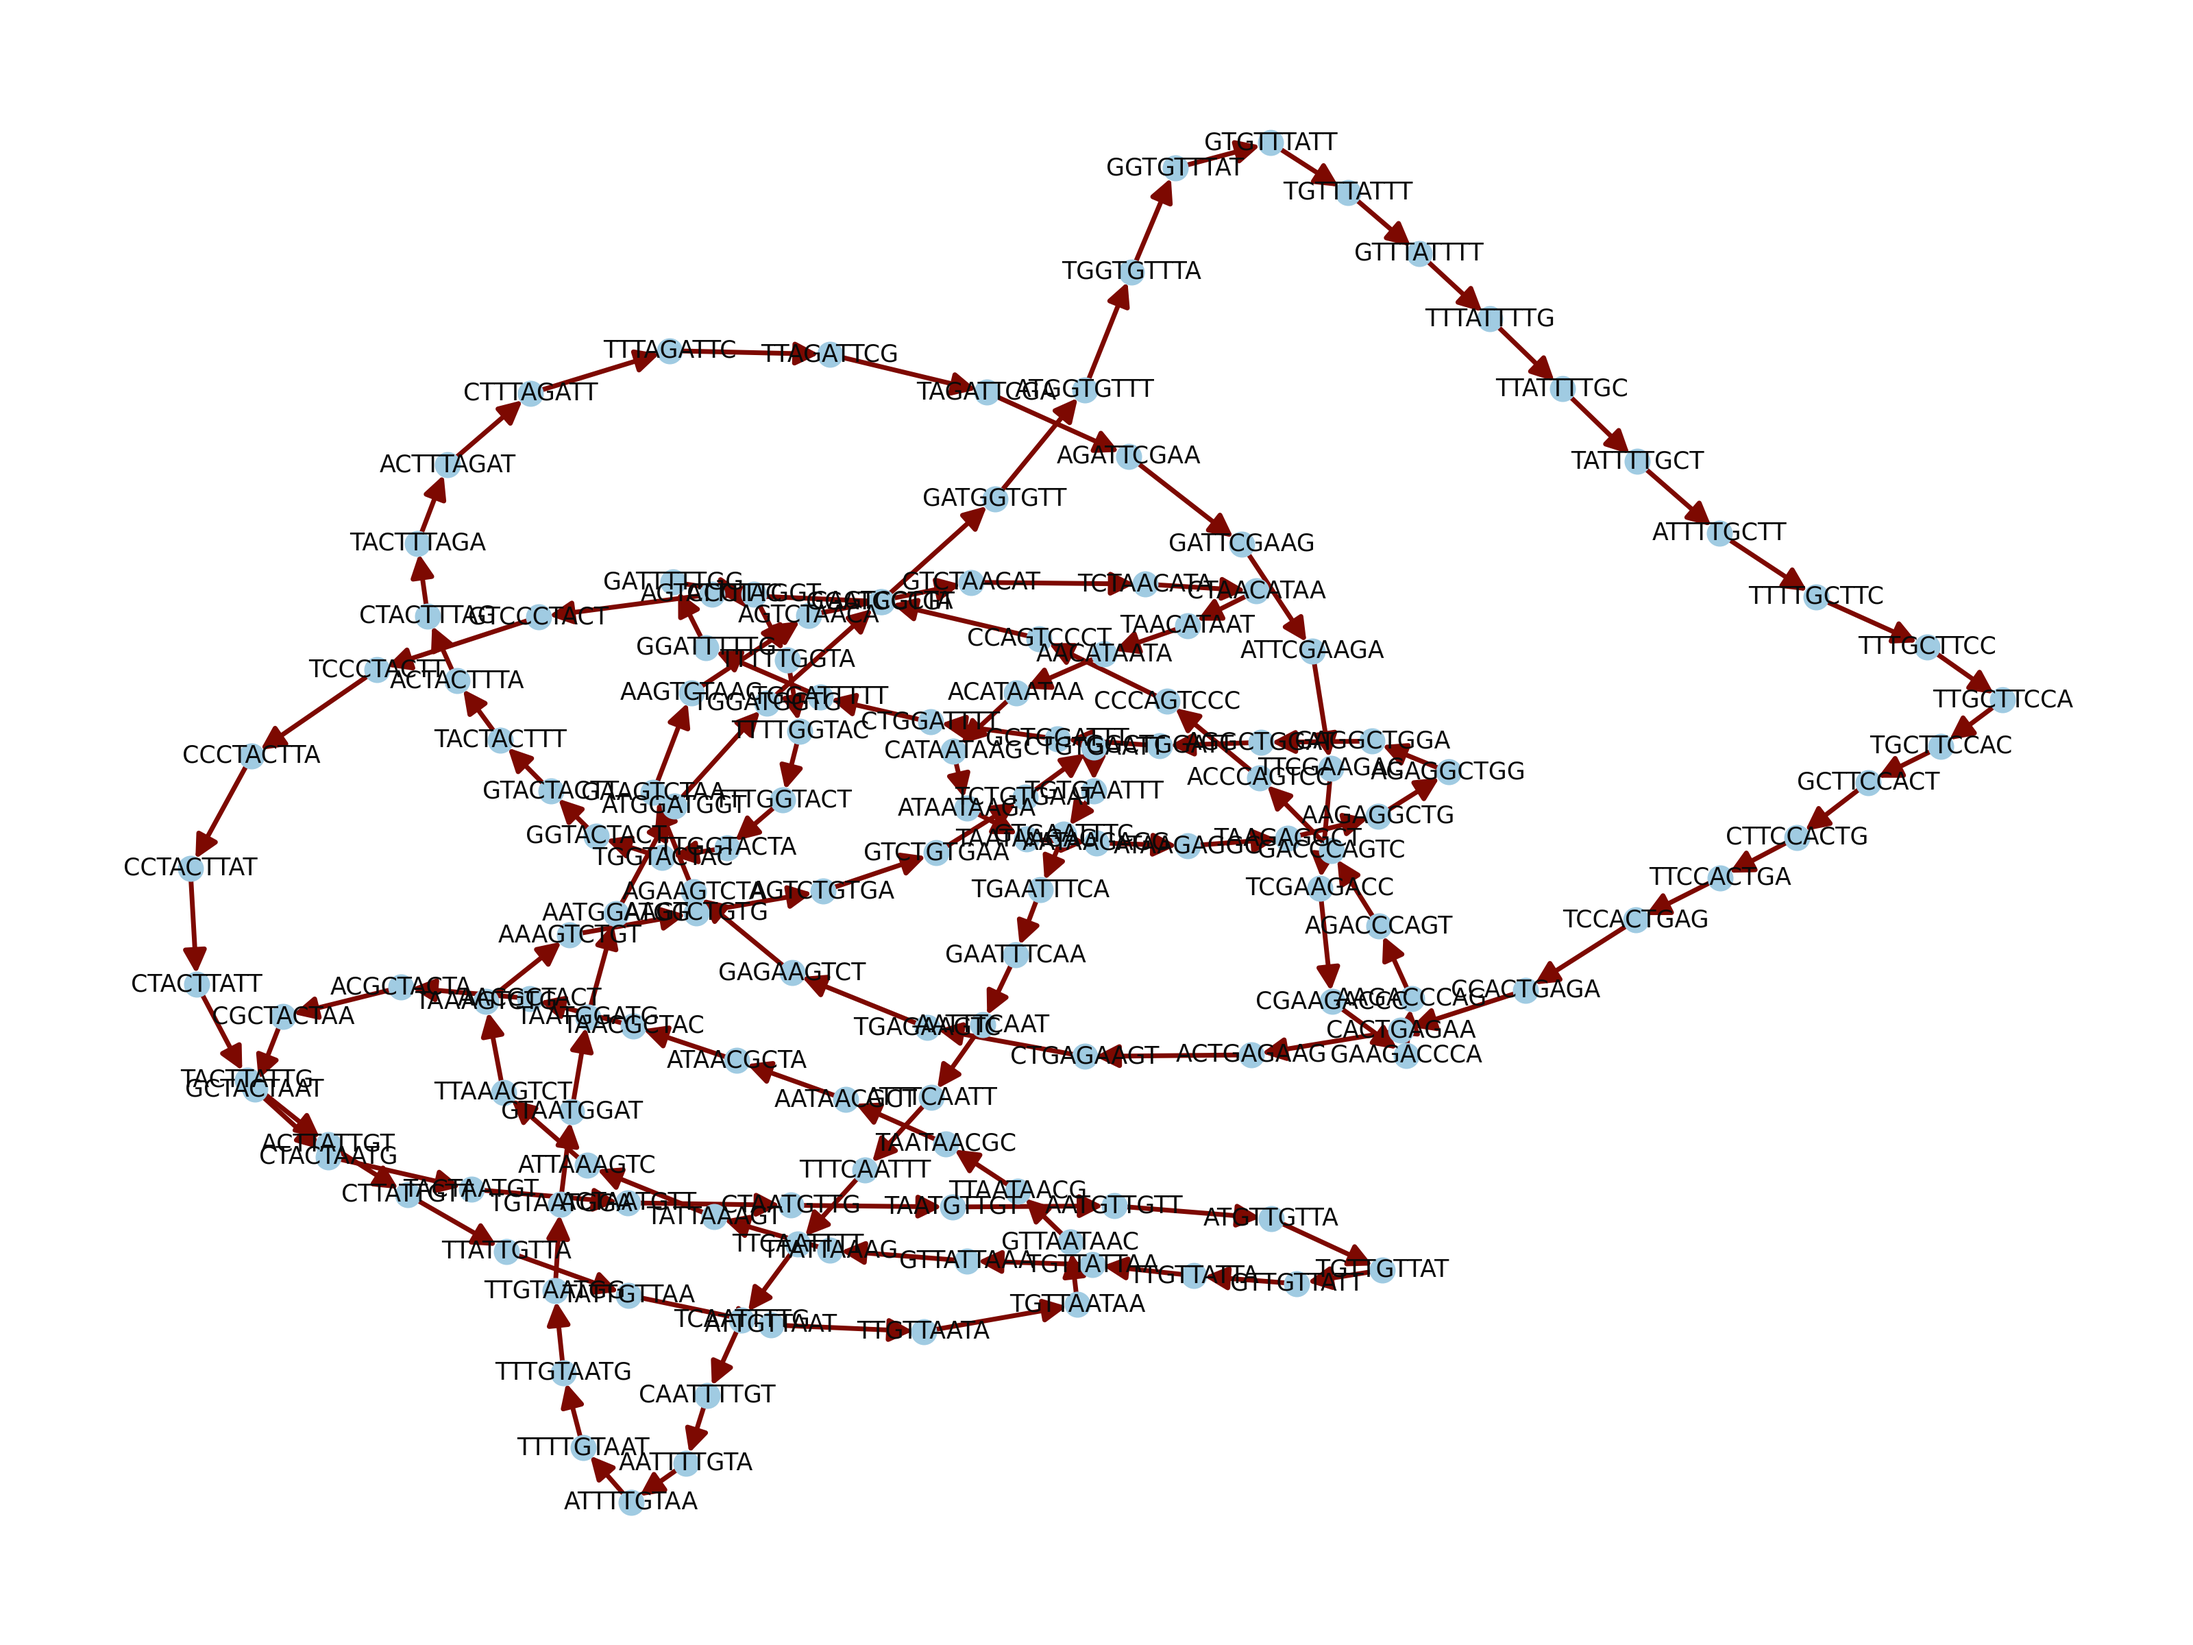
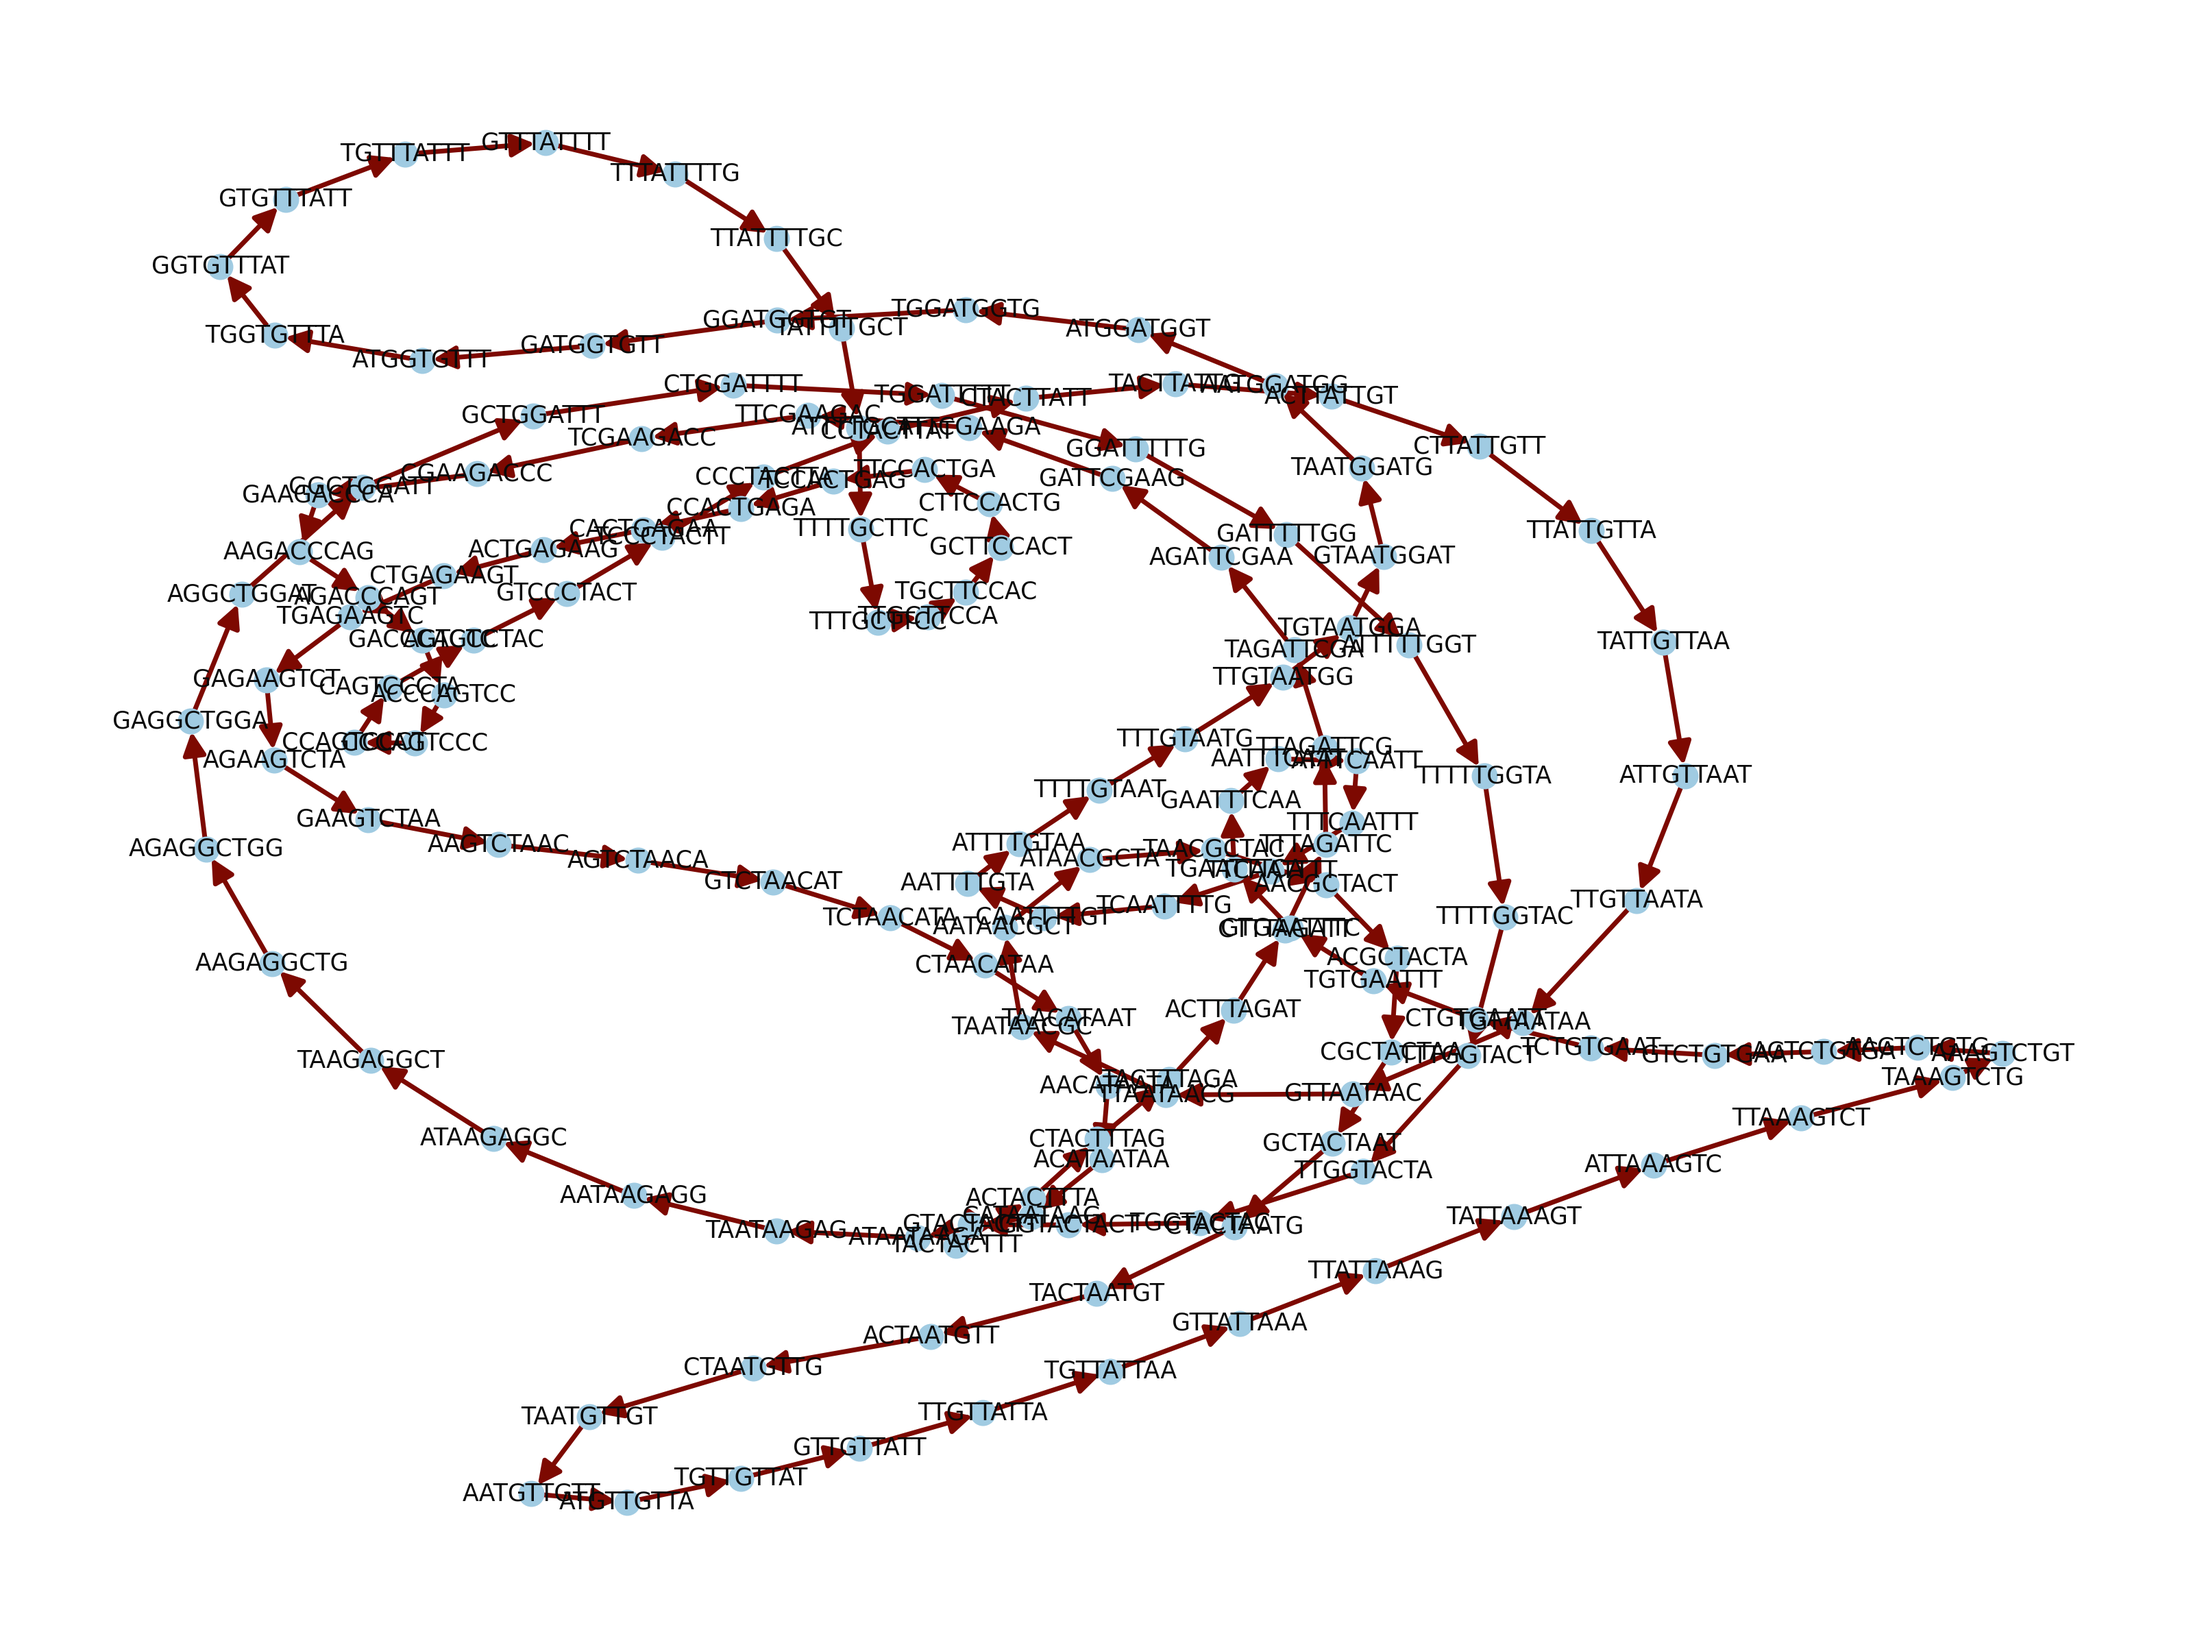
user inputs

diff --git a/main.py b/main.py
@@ -48,10 +48,10 @@ def make_txt(data, filename='./output/output.txt'):
             file.write(str(x) + '\n')
 
 # ==============================================================================================================
-def loop_kmer(data, start, end):
+def loop_kmer(data, kstart, kend, lstart=0, lend=1):
     db_data = db.De_bruijn(data[0], data[1])                    # Create de Bruijn graph
 
-    for i in range(start, end+1):
+    for i in range(kstart, kend+1):
         db_data.de_bruijn_graph(k=i)
         db_data.make_docs(True, True, True, str(i))
 
@@ -69,11 +69,34 @@ def main():
     # User enters prefered file
     if(len(sys.argv) == 2):
         rmove()
+        inpt = sys.argv[1]                                          # Extracting fastq file name from arguments
+        file = "./input/sars_spike_protein_reads.fastq"
 
-        fna_file = sys.argv[1]                                          # Extracting fastq file name from arguments
-        data = get_data(fna_file)                                       # Processing genome data from fna file
-        db_graph = db.De_bruijn(data[0], data[1])                       # Create de Bruijn graph
-        db_graph.matplot_graph(False,True)
+        if(inpt == '-l'):                                           # User enters one kmer value and read range
+            k = int(input("Enter k-mer value: "))
+            lstart = int(input("Enter index for first sequence: "))
+            lend = int(input("End index for the last sequence: "))
+
+            data = get_data(file)                                   # Processing genome data from fna file
+            db_graph = db.De_bruijn(data[0], data[1])               # Create de Bruijn graph
+            db_graph.de_bruijn_graph(start=lstart, end=lend, k=k)
+            db_graph.matplot_graph(False,True)
+
+        if(inpt == '-k'):                                           # User enters kmer range
+            kstart = int(input("Enter starting k-mer value: "))
+            kend = int(input("Enter ending k-mer value: "))
+
+            data = get_data(file)                                   # Processing genome data from fna file
+            loop_kmer(data, kstart, kend)
+
+        elif(inpt == '-kl'):                                        # User enters kmer range and read range
+            kstart = int(input("Enter starting k-mer value: "))
+            kend = int(input("Enter ending k-mer value: "))
+            lstart = int(input("Enter index for first sequence: "))
+            lend = int(input("End index for the last sequence: "))
+
+            data = get_data(file)                                   # Processing genome data from fna file
+            loop_kmer(data, kstart, kend, lstart, lend)
     
     # ----------------------------------------------------------------------------------------------------------
     # Use default file
@@ -84,7 +107,8 @@ def main():
         data = get_data(fna_file)                                       # Processing genome data from fna file
         k = 10
 
-        db_graph = db.De_bruijn(data[0], data[1], k=k)                  # Create de Bruijn graph
+        db_graph = db.De_bruijn(data[0], data[1])                       # Create de Bruijn graph
+        db_graph.de_bruijn_graph(k=k)
         db_graph.make_docs(True,True,True, str(k))
 
     # ----------------------------------------------------------------------------------------------------------
@@ -92,7 +116,7 @@ def main():
     # python .\main start stop
     elif(len(sys.argv) == 3):
         rmove()
-        
+
         start = sys.argv[1]                                             # Start at this k-mer
         end = sys.argv[2]                                               # End at this k-mer
 

diff --git a/de_bruijn.py b/de_bruijn.py
@@ -11,33 +11,31 @@ from tqdm import tqdm               # Progress Bar
 import math
 
 class De_bruijn:
-    def __init__(self, seq = [], header = [], num=2, k=3, cycle=True):
+    def __init__(self, seq = [], header = []):
         self.header = header
         self.seq = seq
 
         self.kmers = {}
         self.edges = set()
-        self.de_bruijn_graph(num=num, k=k, cycle=cycle)
 
     # ----------------------------------------------------------------------------------------------------------
-    # Sets values for attributes self.kmer and self.edges
-    def de_bruijn_graph(self, num=2, k=3, cycle=True):
-        
-        self.kmers = self.get_kmers(num, k, cycle)
+    def de_bruijn_graph(self, start=0, end=1, k=3, cycle=True):
+
+        if(end > len(self.seq) or start < 0 or start > end):             # Cannot exceed bounds of the list self.seq
+            print("ERROR: Invalid input for num!")
+            return
+
+        seq = self.seq[start:end]
+
+        self.kmers = self.get_kmers(seq, k, cycle)
         self.edges = self.get_edges(self.kmers)
 
     # ----------------------------------------------------------------------------------------------------------
     # Build a list of all kmers in the provided sequences
     # k: kmer size
     # cycle: sequence is cyclic or not
-    def get_kmers(self, num=2, k=3, cycle=True):
+    def get_kmers(self, seq, k=3, cycle=True):
         kmers = {}
-
-        if(num > len(self.seq) or num < 1):             # Cannot exceed bounds of the list self.seq
-            print("ERROR: Invalid input for num!")
-            return kmers
-
-        seq = self.seq[:num-1]                          # Get kmers of these reads
 
         for s in tqdm(seq, desc=str(k)+'-mers'):   # Iterate thru sequences with progress bar
             #print("Sequence: ", s)
@@ -117,7 +115,7 @@ class De_bruijn:
     def matplot_graph(self, show_fig=True, save_fig=False, file='./output/deBruijn.png'):
         print("Creating Garph Image: ", file)
         with tqdm(total=4, desc='Image Graph') as bar:              # Progress bar
-
+            plt.clf()
             fig = nx.DiGraph()                  # Initialize weighted graph
             fig.add_edges_from(self.edges)      # Add edges to weighted graph
             bar.update(1)
